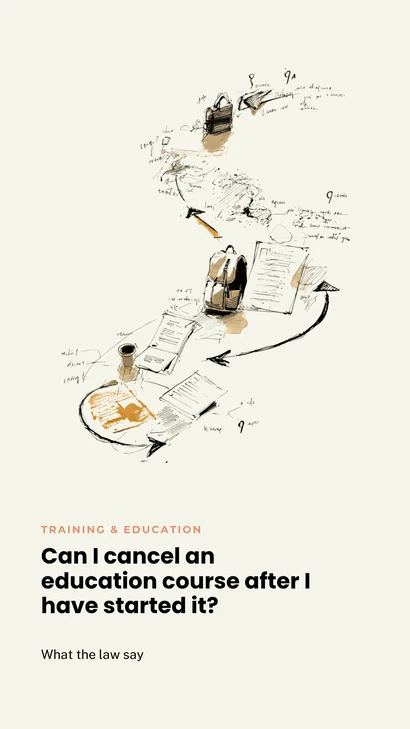
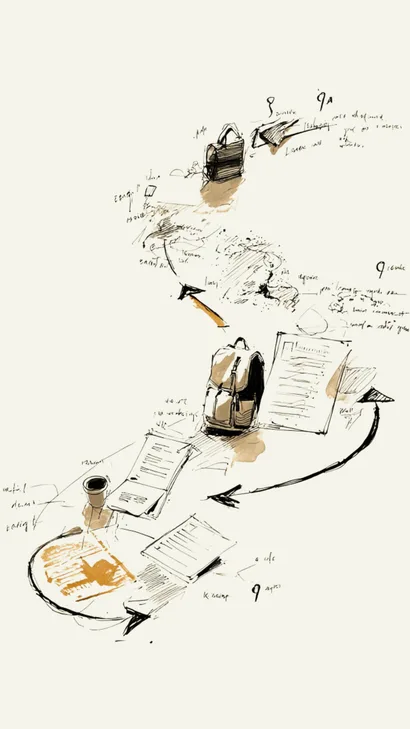
Training & Education questions: title-free card images, hero images, real card text
Same treatment as the Flights & Travel, Employment, Crypto & Fintech, and
Food & Hospitality batches, now for Training & Education (5 articles),
including the pillar page.

1. Replace the 5 small card images in images/questions/training-education/
   with new title-free versions — same filenames, same 1200x2133 dims —
   and regenerate the .webp/-320w.webp/-410w.webp variants from them.

2. Add a dedicated 1600x900 hero image to each of the 5 Training &
   Education question articles via the established .q-hero-image class
   (visible at all breakpoints, unlike the sitewide .hero-image which is
   display:none on mobile).

3. Fix /questions/ index cards (both "all" and "training-education" tab
   panels): title and category are now real HTML text
   (<h3 class="q-card-title">, <span class="q-card-category">) below
   each image, reusing the .q-card component from the earlier batches —
   no new CSS needed.

4. Fix the Training & Education pillar page (training-education.html):
   applied the same .q-card/.q-card-category/.q-card-title structure
   (wrapping the existing <picture>/webp markup) so title/category render
   as real text here too.

Changed region(s): [[0.0293, 0.0905, 0.9951, 0.9053], [0.7024, 0.6337, 0.8488, 0.6639]]

diff --git a/training-education.html b/training-education.html
@@ -547,28 +547,49 @@
        zero DOM nodes for them. Not a "Coming soon" message — nothing at all. -->
   <div id="chFutureSections"></div>
 
-  <!-- QUESTIONS — image-only cards, same .q-card-grid/.q-img-card component as
-       questions.html and the other pillar pages. Static (not JS-rendered like
-       Calculators/Cases/Investigations above) since this section, unlike those,
+  <!-- QUESTIONS — image + category + title cards, same .q-card-grid/.q-card
+       component as questions.html and the other pillar pages (title/category
+       are real HTML text, never baked into the image). Static (not JS-rendered
+       like Calculators/Cases/Investigations above) since this section, unlike those,
        isn't meant to silently disappear if empty. -->
   <section aria-labelledby="ch-questions-h2" style="margin-top: 56px;">
     <h2 id="ch-questions-h2" class="cl-hub-cat">Questions</h2>
     <p class="cl-hub-cat-sub">Real questions about course refunds, tuition fees and cancellation rights — answered with the exact US and UK law that applies. <a href="/questions">See all Questions →</a></p>
     <div class="q-card-grid">
-      <a class="q-img-card" href="/questions/training-education/can-online-course-refuse-refund">
-        <picture><source srcset="/images/questions/training-education/can-online-course-refuse-refund-320w.webp 320w, /images/questions/training-education/can-online-course-refuse-refund-410w.webp 410w, /images/questions/training-education/can-online-course-refuse-refund.webp 540w" sizes="(min-width: 960px) 265px, (min-width: 640px) 205px, 160px" type="image/webp"><img src="/images/questions/training-education/can-online-course-refuse-refund.png" alt="Can an online course refuse a refund?" loading="lazy" width="1200" height="2133"></picture>
+      <a class="q-card" href="/questions/training-education/can-online-course-refuse-refund">
+        <div class="q-img-card">
+          <picture><source srcset="/images/questions/training-education/can-online-course-refuse-refund-320w.webp 320w, /images/questions/training-education/can-online-course-refuse-refund-410w.webp 410w, /images/questions/training-education/can-online-course-refuse-refund.webp 540w" sizes="(min-width: 960px) 265px, (min-width: 640px) 205px, 160px" type="image/webp"><img src="/images/questions/training-education/can-online-course-refuse-refund.png" alt="Can an online course refuse a refund?" loading="lazy" width="1200" height="2133"></picture>
+        </div>
+        <span class="q-card-category">Training &amp; Education</span>
+        <h3 class="q-card-title">Can an online course refuse a refund?</h3>
       </a>
-      <a class="q-img-card" href="/questions/training-education/can-online-course-automatically-renew-subscription">
-        <picture><source srcset="/images/questions/training-education/can-online-course-automatically-renew-subscription-320w.webp 320w, /images/questions/training-education/can-online-course-automatically-renew-subscription-410w.webp 410w, /images/questions/training-education/can-online-course-automatically-renew-subscription.webp 540w" sizes="(min-width: 960px) 265px, (min-width: 640px) 205px, 160px" type="image/webp"><img src="/images/questions/training-education/can-online-course-automatically-renew-subscription.png" alt="Can an online course automatically renew my subscription?" loading="lazy" width="1200" height="2133"></picture>
+      <a class="q-card" href="/questions/training-education/can-online-course-automatically-renew-subscription">
+        <div class="q-img-card">
+          <picture><source srcset="/images/questions/training-education/can-online-course-automatically-renew-subscription-320w.webp 320w, /images/questions/training-education/can-online-course-automatically-renew-subscription-410w.webp 410w, /images/questions/training-education/can-online-course-automatically-renew-subscription.webp 540w" sizes="(min-width: 960px) 265px, (min-width: 640px) 205px, 160px" type="image/webp"><img src="/images/questions/training-education/can-online-course-automatically-renew-subscription.png" alt="Can an online course automatically renew my subscription?" loading="lazy" width="1200" height="2133"></picture>
+        </div>
+        <span class="q-card-category">Training &amp; Education</span>
+        <h3 class="q-card-title">Can an online course automatically renew my subscription?</h3>
       </a>
-      <a class="q-img-card" href="/questions/training-education/can-training-centre-cancel-course-keep-money">
-        <picture><source srcset="/images/questions/training-education/can-training-centre-cancel-course-keep-money-320w.webp 320w, /images/questions/training-education/can-training-centre-cancel-course-keep-money-410w.webp 410w, /images/questions/training-education/can-training-centre-cancel-course-keep-money.webp 540w" sizes="(min-width: 960px) 265px, (min-width: 640px) 205px, 160px" type="image/webp"><img src="/images/questions/training-education/can-training-centre-cancel-course-keep-money.png" alt="Can a training centre cancel a course and keep my money?" loading="lazy" width="1200" height="2133"></picture>
+      <a class="q-card" href="/questions/training-education/can-training-centre-cancel-course-keep-money">
+        <div class="q-img-card">
+          <picture><source srcset="/images/questions/training-education/can-training-centre-cancel-course-keep-money-320w.webp 320w, /images/questions/training-education/can-training-centre-cancel-course-keep-money-410w.webp 410w, /images/questions/training-education/can-training-centre-cancel-course-keep-money.webp 540w" sizes="(min-width: 960px) 265px, (min-width: 640px) 205px, 160px" type="image/webp"><img src="/images/questions/training-education/can-training-centre-cancel-course-keep-money.png" alt="Can a training centre cancel a course and keep my money?" loading="lazy" width="1200" height="2133"></picture>
+        </div>
+        <span class="q-card-category">Training &amp; Education</span>
+        <h3 class="q-card-title">Can a training centre cancel a course and keep my money?</h3>
       </a>
-      <a class="q-img-card" href="/questions/training-education/can-school-refuse-exam-because-i-owe-money">
-        <picture><source srcset="/images/questions/training-education/can-school-refuse-exam-because-i-owe-money-320w.webp 320w, /images/questions/training-education/can-school-refuse-exam-because-i-owe-money-410w.webp 410w, /images/questions/training-education/can-school-refuse-exam-because-i-owe-money.webp 540w" sizes="(min-width: 960px) 265px, (min-width: 640px) 205px, 160px" type="image/webp"><img src="/images/questions/training-education/can-school-refuse-exam-because-i-owe-money.png" alt="Can a school refuse to let me sit an exam because I owe money?" loading="lazy" width="1200" height="2133"></picture>
+      <a class="q-card" href="/questions/training-education/can-school-refuse-exam-because-i-owe-money">
+        <div class="q-img-card">
+          <picture><source srcset="/images/questions/training-education/can-school-refuse-exam-because-i-owe-money-320w.webp 320w, /images/questions/training-education/can-school-refuse-exam-because-i-owe-money-410w.webp 410w, /images/questions/training-education/can-school-refuse-exam-because-i-owe-money.webp 540w" sizes="(min-width: 960px) 265px, (min-width: 640px) 205px, 160px" type="image/webp"><img src="/images/questions/training-education/can-school-refuse-exam-because-i-owe-money.png" alt="Can a school refuse to let me sit an exam because I owe money?" loading="lazy" width="1200" height="2133"></picture>
+        </div>
+        <span class="q-card-category">Training &amp; Education</span>
+        <h3 class="q-card-title">Can a school refuse to let me sit an exam because I owe money?</h3>
       </a>
-      <a class="q-img-card" href="/questions/training-education/can-i-cancel-education-course-after-started">
-        <picture><source srcset="/images/questions/training-education/can-i-cancel-education-course-after-started-320w.webp 320w, /images/questions/training-education/can-i-cancel-education-course-after-started-410w.webp 410w, /images/questions/training-education/can-i-cancel-education-course-after-started.webp 540w" sizes="(min-width: 960px) 265px, (min-width: 640px) 205px, 160px" type="image/webp"><img src="/images/questions/training-education/can-i-cancel-education-course-after-started.png" alt="Can I cancel an education course after it has started?" loading="lazy" width="1200" height="2133"></picture>
+      <a class="q-card" href="/questions/training-education/can-i-cancel-education-course-after-started">
+        <div class="q-img-card">
+          <picture><source srcset="/images/questions/training-education/can-i-cancel-education-course-after-started-320w.webp 320w, /images/questions/training-education/can-i-cancel-education-course-after-started-410w.webp 410w, /images/questions/training-education/can-i-cancel-education-course-after-started.webp 540w" sizes="(min-width: 960px) 265px, (min-width: 640px) 205px, 160px" type="image/webp"><img src="/images/questions/training-education/can-i-cancel-education-course-after-started.png" alt="Can I cancel an education course after it has started?" loading="lazy" width="1200" height="2133"></picture>
+        </div>
+        <span class="q-card-category">Training &amp; Education</span>
+        <h3 class="q-card-title">Can I cancel an education course after it has started?</h3>
       </a>
     </div>
   </section>

diff --git a/questions.html b/questions.html
@@ -461,20 +461,40 @@
           <span class="q-card-category">Food &amp; Hospitality</span>
           <h3 class="q-card-title">Can a restaurant charge me for food I never ordered?</h3>
         </a>
-        <a class="q-img-card" href="/questions/training-education/can-online-course-refuse-refund">
-          <img src="/images/questions/training-education/can-online-course-refuse-refund.png" alt="Can an online course refuse a refund?" loading="lazy" width="1200" height="2133">
+        <a class="q-card" href="/questions/training-education/can-online-course-refuse-refund">
+          <div class="q-img-card">
+            <img src="/images/questions/training-education/can-online-course-refuse-refund.png" alt="Can an online course refuse a refund?" loading="lazy" width="1200" height="2133">
+          </div>
+          <span class="q-card-category">Training &amp; Education</span>
+          <h3 class="q-card-title">Can an online course refuse a refund?</h3>
         </a>
-        <a class="q-img-card" href="/questions/training-education/can-online-course-automatically-renew-subscription">
-          <img src="/images/questions/training-education/can-online-course-automatically-renew-subscription.png" alt="Can an online course automatically renew my subscription?" loading="lazy" width="1200" height="2133">
+        <a class="q-card" href="/questions/training-education/can-online-course-automatically-renew-subscription">
+          <div class="q-img-card">
+            <img src="/images/questions/training-education/can-online-course-automatically-renew-subscription.png" alt="Can an online course automatically renew my subscription?" loading="lazy" width="1200" height="2133">
+          </div>
+          <span class="q-card-category">Training &amp; Education</span>
+          <h3 class="q-card-title">Can an online course automatically renew my subscription?</h3>
         </a>
-        <a class="q-img-card" href="/questions/training-education/can-training-centre-cancel-course-keep-money">
-          <img src="/images/questions/training-education/can-training-centre-cancel-course-keep-money.png" alt="Can a training centre cancel a course and keep my money?" loading="lazy" width="1200" height="2133">
+        <a class="q-card" href="/questions/training-education/can-training-centre-cancel-course-keep-money">
+          <div class="q-img-card">
+            <img src="/images/questions/training-education/can-training-centre-cancel-course-keep-money.png" alt="Can a training centre cancel a course and keep my money?" loading="lazy" width="1200" height="2133">
+          </div>
+          <span class="q-card-category">Training &amp; Education</span>
+          <h3 class="q-card-title">Can a training centre cancel a course and keep my money?</h3>
         </a>
-        <a class="q-img-card" href="/questions/training-education/can-school-refuse-exam-because-i-owe-money">
-          <img src="/images/questions/training-education/can-school-refuse-exam-because-i-owe-money.png" alt="Can a school refuse to let me sit an exam because I owe money?" loading="lazy" width="1200" height="2133">
+        <a class="q-card" href="/questions/training-education/can-school-refuse-exam-because-i-owe-money">
+          <div class="q-img-card">
+            <img src="/images/questions/training-education/can-school-refuse-exam-because-i-owe-money.png" alt="Can a school refuse to let me sit an exam because I owe money?" loading="lazy" width="1200" height="2133">
+          </div>
+          <span class="q-card-category">Training &amp; Education</span>
+          <h3 class="q-card-title">Can a school refuse to let me sit an exam because I owe money?</h3>
         </a>
-        <a class="q-img-card" href="/questions/training-education/can-i-cancel-education-course-after-started">
-          <img src="/images/questions/training-education/can-i-cancel-education-course-after-started.png" alt="Can I cancel an education course after it has started?" loading="lazy" width="1200" height="2133">
+        <a class="q-card" href="/questions/training-education/can-i-cancel-education-course-after-started">
+          <div class="q-img-card">
+            <img src="/images/questions/training-education/can-i-cancel-education-course-after-started.png" alt="Can I cancel an education course after it has started?" loading="lazy" width="1200" height="2133">
+          </div>
+          <span class="q-card-category">Training &amp; Education</span>
+          <h3 class="q-card-title">Can I cancel an education course after it has started?</h3>
         </a>
         <a class="q-img-card" href="/questions/financial-banking/can-bank-ask-me-where-money-came-from">
           <img src="/images/questions/financial-banking/can-bank-ask-me-where-money-came-from.png" alt="Can my bank ask me where my money came from?" loading="lazy" width="1200" height="2133">
@@ -701,20 +721,40 @@
 
     <div class="qh-tool-panel" data-toolpanel="training-education">
       <div class="q-card-grid">
-        <a class="q-img-card" href="/questions/training-education/can-online-course-refuse-refund">
-          <img src="/images/questions/training-education/can-online-course-refuse-refund.png" alt="Can an online course refuse a refund?" loading="lazy" width="1200" height="2133">
+        <a class="q-card" href="/questions/training-education/can-online-course-refuse-refund">
+          <div class="q-img-card">
+            <img src="/images/questions/training-education/can-online-course-refuse-refund.png" alt="Can an online course refuse a refund?" loading="lazy" width="1200" height="2133">
+          </div>
+          <span class="q-card-category">Training &amp; Education</span>
+          <h3 class="q-card-title">Can an online course refuse a refund?</h3>
         </a>
-        <a class="q-img-card" href="/questions/training-education/can-online-course-automatically-renew-subscription">
-          <img src="/images/questions/training-education/can-online-course-automatically-renew-subscription.png" alt="Can an online course automatically renew my subscription?" loading="lazy" width="1200" height="2133">
+        <a class="q-card" href="/questions/training-education/can-online-course-automatically-renew-subscription">
+          <div class="q-img-card">
+            <img src="/images/questions/training-education/can-online-course-automatically-renew-subscription.png" alt="Can an online course automatically renew my subscription?" loading="lazy" width="1200" height="2133">
+          </div>
+          <span class="q-card-category">Training &amp; Education</span>
+          <h3 class="q-card-title">Can an online course automatically renew my subscription?</h3>
         </a>
-        <a class="q-img-card" href="/questions/training-education/can-training-centre-cancel-course-keep-money">
-          <img src="/images/questions/training-education/can-training-centre-cancel-course-keep-money.png" alt="Can a training centre cancel a course and keep my money?" loading="lazy" width="1200" height="2133">
+        <a class="q-card" href="/questions/training-education/can-training-centre-cancel-course-keep-money">
+          <div class="q-img-card">
+            <img src="/images/questions/training-education/can-training-centre-cancel-course-keep-money.png" alt="Can a training centre cancel a course and keep my money?" loading="lazy" width="1200" height="2133">
+          </div>
+          <span class="q-card-category">Training &amp; Education</span>
+          <h3 class="q-card-title">Can a training centre cancel a course and keep my money?</h3>
         </a>
-        <a class="q-img-card" href="/questions/training-education/can-school-refuse-exam-because-i-owe-money">
-          <img src="/images/questions/training-education/can-school-refuse-exam-because-i-owe-money.png" alt="Can a school refuse to let me sit an exam because I owe money?" loading="lazy" width="1200" height="2133">
+        <a class="q-card" href="/questions/training-education/can-school-refuse-exam-because-i-owe-money">
+          <div class="q-img-card">
+            <img src="/images/questions/training-education/can-school-refuse-exam-because-i-owe-money.png" alt="Can a school refuse to let me sit an exam because I owe money?" loading="lazy" width="1200" height="2133">
+          </div>
+          <span class="q-card-category">Training &amp; Education</span>
+          <h3 class="q-card-title">Can a school refuse to let me sit an exam because I owe money?</h3>
         </a>
-        <a class="q-img-card" href="/questions/training-education/can-i-cancel-education-course-after-started">
-          <img src="/images/questions/training-education/can-i-cancel-education-course-after-started.png" alt="Can I cancel an education course after it has started?" loading="lazy" width="1200" height="2133">
+        <a class="q-card" href="/questions/training-education/can-i-cancel-education-course-after-started">
+          <div class="q-img-card">
+            <img src="/images/questions/training-education/can-i-cancel-education-course-after-started.png" alt="Can I cancel an education course after it has started?" loading="lazy" width="1200" height="2133">
+          </div>
+          <span class="q-card-category">Training &amp; Education</span>
+          <h3 class="q-card-title">Can I cancel an education course after it has started?</h3>
         </a>
       </div>
     </div>

diff --git a/questions/training-education/can-school-refuse-exam-because-i-owe-money.html b/questions/training-education/can-school-refuse-exam-because-i-owe-money.html
@@ -102,6 +102,8 @@
   .wrap { max-width: 760px; margin: 0 auto; padding: 0 24px; }
   .q-header { padding: 56px 0 32px; }
   .q-category { display: inline-block; font-size: 13px; font-weight: 700; letter-spacing: 1.2px; text-transform: uppercase; color: var(--accent-terra); margin-bottom: 18px; }
+  /* Visible at ALL breakpoints, unlike the sitewide .hero-image class (display:none on mobile). */
+  .q-hero-image { display: block; width: 100%; max-width: 100%; height: auto; border-radius: 12px; margin: 0 0 24px; }
   .q-header h1 { font-family: var(--font-serif); font-size: 38px; font-weight: 800; line-height: 1.2; margin-bottom: 18px; }
   .q-dek { font-size: 18px; color: var(--text-secondary); max-width: 620px; }
   .q-meta { display: flex; gap: 18px; margin-top: 22px; font-size: 13px; color: var(--text-secondary); }
@@ -339,6 +341,7 @@
 
   <header class="q-header">
     <span class="q-category">Training &amp; Education · US &amp; UK</span>
+    <img class="q-hero-image" src="/images/questions/training-education/can-school-refuse-exam-because-i-owe-money-hero.png" width="1600" height="900" alt="Can a school refuse to let me take an exam because I owe money?" loading="eager" fetchpriority="high">
     <h1>Can a school refuse to let me take an exam because I owe money?</h1>
     <p class="q-dek">A quiet 2024 federal rule changed part of this picture in the US — but it only covers one specific kind of debt, and everywhere else still depends heavily on your state.</p>
     <div class="q-meta">

diff --git a/questions/training-education/can-training-centre-cancel-course-keep-money.html b/questions/training-education/can-training-centre-cancel-course-keep-money.html
@@ -102,6 +102,8 @@
   .wrap { max-width: 760px; margin: 0 auto; padding: 0 24px; }
   .q-header { padding: 56px 0 32px; }
   .q-category { display: inline-block; font-size: 13px; font-weight: 700; letter-spacing: 1.2px; text-transform: uppercase; color: var(--accent-terra); margin-bottom: 18px; }
+  /* Visible at ALL breakpoints, unlike the sitewide .hero-image class (display:none on mobile). */
+  .q-hero-image { display: block; width: 100%; max-width: 100%; height: auto; border-radius: 12px; margin: 0 0 24px; }
   .q-header h1 { font-family: var(--font-serif); font-size: 38px; font-weight: 800; line-height: 1.2; margin-bottom: 18px; }
   .q-dek { font-size: 18px; color: var(--text-secondary); max-width: 620px; }
   .q-meta { display: flex; gap: 18px; margin-top: 22px; font-size: 13px; color: var(--text-secondary); }
@@ -339,6 +341,7 @@
 
   <header class="q-header">
     <span class="q-category">Training &amp; Education · US &amp; UK</span>
+    <img class="q-hero-image" src="/images/questions/training-education/can-training-centre-cancel-course-keep-money-hero.png" width="1600" height="900" alt="Can a private training centre cancel my course and keep my money?" loading="eager" fetchpriority="high">
     <h1>Can a private training centre cancel my course and keep my money?</h1>
     <p class="q-dek">If they cancel, the refund is generally yours by right — the real risk isn't them refusing, it's them closing down before they can pay it.</p>
     <div class="q-meta">

diff --git a/questions/training-education/can-online-course-automatically-renew-subscription.html b/questions/training-education/can-online-course-automatically-renew-subscription.html
@@ -102,6 +102,8 @@
   .wrap { max-width: 760px; margin: 0 auto; padding: 0 24px; }
   .q-header { padding: 56px 0 32px; }
   .q-category { display: inline-block; font-size: 13px; font-weight: 700; letter-spacing: 1.2px; text-transform: uppercase; color: var(--accent-terra); margin-bottom: 18px; }
+  /* Visible at ALL breakpoints, unlike the sitewide .hero-image class (display:none on mobile). */
+  .q-hero-image { display: block; width: 100%; max-width: 100%; height: auto; border-radius: 12px; margin: 0 0 24px; }
   .q-header h1 { font-family: var(--font-serif); font-size: 38px; font-weight: 800; line-height: 1.2; margin-bottom: 18px; }
   .q-dek { font-size: 18px; color: var(--text-secondary); max-width: 620px; }
   .q-meta { display: flex; gap: 18px; margin-top: 22px; font-size: 13px; color: var(--text-secondary); }
@@ -339,6 +341,7 @@
 
   <header class="q-header">
     <span class="q-category">Training &amp; Education · US &amp; UK</span>
+    <img class="q-hero-image" src="/images/questions/training-education/can-online-course-automatically-renew-subscription-hero.png" width="1600" height="900" alt="Can an online course automatically renew my subscription?" loading="eager" fetchpriority="high">
     <h1>Can an online course automatically renew my subscription?</h1>
     <p class="q-dek">Auto-renewal itself is legal — it's how hard the provider makes you fight to cancel it that the law is increasingly cracking down on.</p>
     <div class="q-meta">

diff --git a/questions/training-education/can-i-cancel-education-course-after-started.html b/questions/training-education/can-i-cancel-education-course-after-started.html
@@ -102,6 +102,8 @@
   .wrap { max-width: 760px; margin: 0 auto; padding: 0 24px; }
   .q-header { padding: 56px 0 32px; }
   .q-category { display: inline-block; font-size: 13px; font-weight: 700; letter-spacing: 1.2px; text-transform: uppercase; color: var(--accent-terra); margin-bottom: 18px; }
+  /* Visible at ALL breakpoints, unlike the sitewide .hero-image class (display:none on mobile). */
+  .q-hero-image { display: block; width: 100%; max-width: 100%; height: auto; border-radius: 12px; margin: 0 0 24px; }
   .q-header h1 { font-family: var(--font-serif); font-size: 38px; font-weight: 800; line-height: 1.2; margin-bottom: 18px; }
   .q-dek { font-size: 18px; color: var(--text-secondary); max-width: 620px; }
   .q-meta { display: flex; gap: 18px; margin-top: 22px; font-size: 13px; color: var(--text-secondary); }
@@ -339,6 +341,7 @@
 
   <header class="q-header">
     <span class="q-category">Training &amp; Education · US &amp; UK</span>
+    <img class="q-hero-image" src="/images/questions/training-education/can-i-cancel-education-course-after-started-hero.png" width="1600" height="900" alt="Can I cancel an education course after I have started it?" loading="eager" fetchpriority="high">
     <h1>Can I cancel an education course after I have started it?</h1>
     <p class="q-dek">Starting a course doesn't automatically end your right to walk away — a specific checkbox at signup is usually what actually decides that.</p>
     <div class="q-meta">

diff --git a/questions/training-education/can-online-course-refuse-refund.html b/questions/training-education/can-online-course-refuse-refund.html
@@ -102,6 +102,8 @@
   .wrap { max-width: 760px; margin: 0 auto; padding: 0 24px; }
   .q-header { padding: 56px 0 32px; }
   .q-category { display: inline-block; font-size: 13px; font-weight: 700; letter-spacing: 1.2px; text-transform: uppercase; color: var(--accent-terra); margin-bottom: 18px; }
+  /* Visible at ALL breakpoints, unlike the sitewide .hero-image class (display:none on mobile). */
+  .q-hero-image { display: block; width: 100%; max-width: 100%; height: auto; border-radius: 12px; margin: 0 0 24px; }
   .q-header h1 { font-family: var(--font-serif); font-size: 38px; font-weight: 800; line-height: 1.2; margin-bottom: 18px; }
   .q-dek { font-size: 18px; color: var(--text-secondary); max-width: 620px; }
   .q-meta { display: flex; gap: 18px; margin-top: 22px; font-size: 13px; color: var(--text-secondary); }
@@ -339,6 +341,7 @@
 
   <header class="q-header">
     <span class="q-category">Training &amp; Education · US &amp; UK</span>
+    <img class="q-hero-image" src="/images/questions/training-education/can-online-course-refuse-refund-hero.png" width="1600" height="900" alt="Can an online course refuse to give me a refund?" loading="eager" fetchpriority="high">
     <h1>Can an online course refuse to give me a refund?</h1>
     <p class="q-dek">A "no refunds" banner on the checkout page is a business preference, not a law — and in one of these two countries, it genuinely doesn't have the final say.</p>
     <div class="q-meta">
